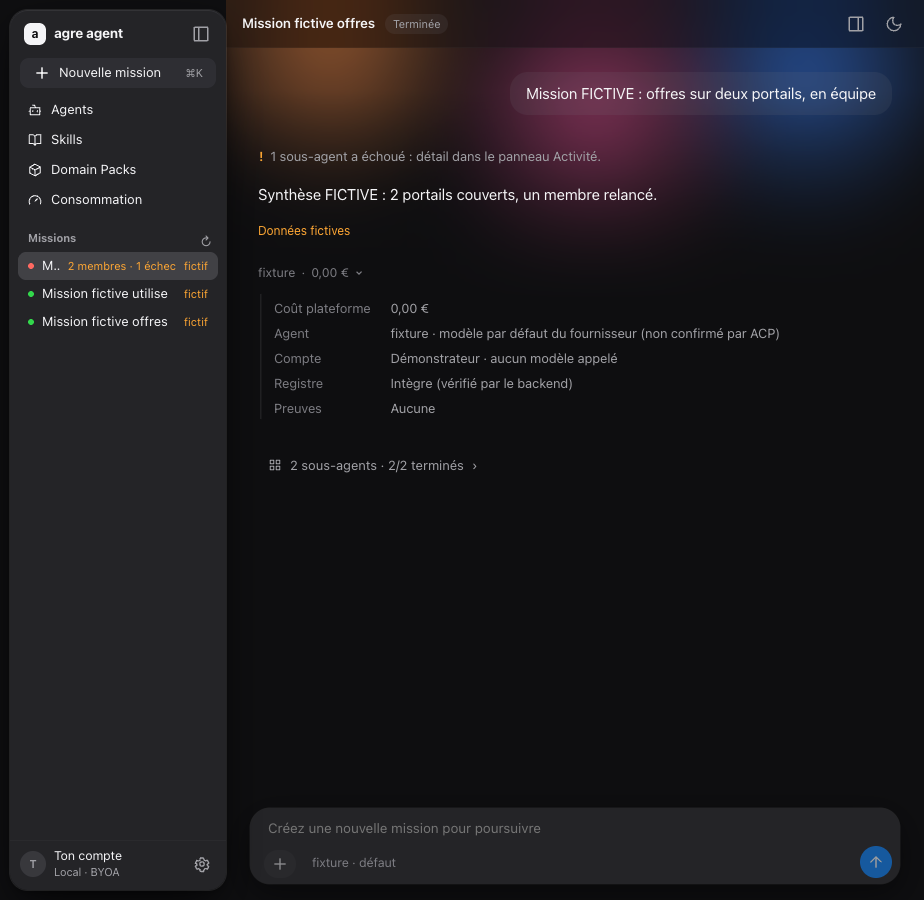
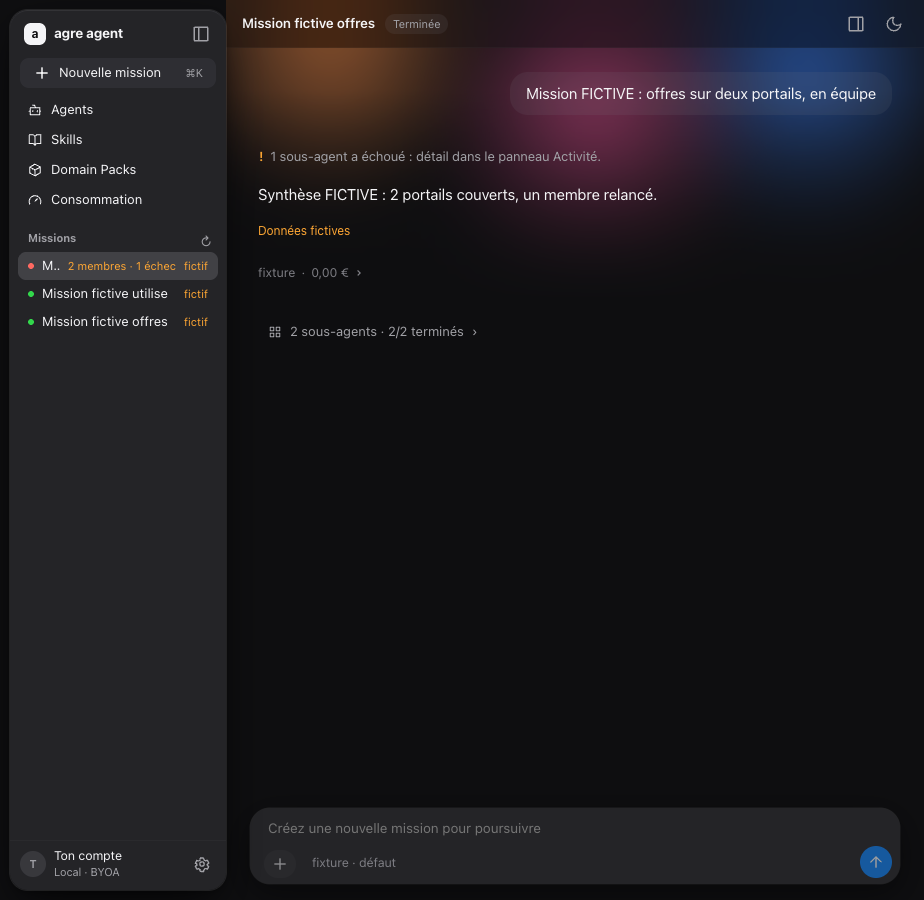
[reponse-04] E2E complet 18/18 contre le back à jour (35af485) ; captures « après » refaites ; rapport et note de reprise

diff --git a/.manager/reports/reponse-04.md b/.manager/reports/reponse-04.md
@@ -35,8 +35,9 @@ Mission workflow à 760 px :
   « Voir à côté » (un membre suivi en direct dans une **vue scindée** à côté du fil de sa mission) et « Arrêter ».
 - **Aussi** : brief 02 (étapes d'un workflow en une ligne, « Données » dans les détails, journal brut dans le panneau,
   accords d'étape dans la réponse) et `skill-chip-01` (pastille de skill, lueur à trois trajectoires).
-- **Vérifié** : `npm test` 392/392, `npm run build` OK, `prettier` OK, captures avant/après, e2e 17/18 contre le back
-  `swarm-20-11` (le test « défilement » reste rouge, point ouvert n° 10). **Non vérifié** : aucun vrai agent lancé ; suite complète du back non lancée.
+- **Vérifié (21/11, 11:40)** : `npm test` 396/396, `npm run build` OK, `prettier` OK, **e2e 18/18** contre le back
+  `swarm-20-11` à jour (`35af485`, avec `swarm-14`, `15` et `16`), captures « après » refaites. **Non vérifié** : aucun
+  vrai agent lancé ; suite complète du back non lancée.
 
 ## Journal
 - 09:58 Zip extrait dans un dossier vide du scratchpad : dossier de passation `design_handoff_conversation_agent/`
@@ -76,6 +77,18 @@ Mission workflow à 760 px :
   Résultat : **17/18**. Reste rouge « défilement FICTIF : le composeur ne boucle pas après une petite remontée » : le
   composeur ne passe pas en compact après une remontée de 65 px. **Non diagnostiqué**, point ouvert n° 10. Sortie :
   `reponse-04/e2e-complet.txt` (passe à 16/18, avant la correction du test SSE).
+- 11:10 Reprise après compactage. Back relu : `swarm-20-11` est passé de `e7f4964` à `35af485` (lots `swarm-14`
+  consommation annoncée, `swarm-15` leçons durables, `swarm-16` niveaux de modèle). Docs `api-delegation.md` et
+  `api-lecons.md` relues. Rien de cassé côté front (événements inconnus ignorés, sans nom technique affiché).
+- 11:15 E2E « défilement » diagnostiqué par un script de mesure (scratchpad) : à 1550 px tout marche ; à 375 px la roue
+  ne produit aucun événement de défilement du fil. Cause : le panneau Activité, ouvert d'office en large, restait ouvert
+  et couvrait le fil sous 760 px (surcouche pleine largeur). Test rouge dans `activity-panel-app.test.tsx`, puis
+  correction dans `App.tsx` : le panneau se ferme quand la fenêtre passe sous 760 px. E2E seul : vert.
+- 11:20 Suivi du contrat du back : tests rouges puis verts pour l'événement `usage` (ligne « Annoncé par l’agent » du
+  détail de la ligne méta, via `texteAnnonce` dans `status.ts`) et `lecon_gardee` (journal). Commit `7ffb8b4`.
+- 11:25-11:40 `npm test` 396/396, build, prettier ; **e2e complet 18/18** (sortie : `reponse-04/e2e-complet.txt`) ;
+  captures `front-01-screens/` d'un ancien rapport, réécrites par l'e2e, remises ; captures « après » refaites (la
+  ligne méta est bien repliée dans la vue scindée).
 
 ## Ce qui disparaît du fil, ou change de place (étape 1 du brief)
 | Avant (dans le fil) | Après |
@@ -186,7 +199,7 @@ Adaptés, un par ligne :
 ## Captures (`.manager/reports/reponse-04/`, thème sombre)
 - Avant (18) : `avant-{terminee-workflow,reponse-agent,equipe}-{1440,924,760}-sombre.png` et `-haut.png`.
 - Après (22) : mêmes noms en `apres-`. S'y ajoutent `apres-reponse-agent-*-deplie.png` (activité et méta dépliées) et
-  `apres-equipe-1440-sombre-vue-scindee.png`.
+  `apres-equipe-1440-sombre-vue-scindee.png`. Refaites le 21/11 à 11:35, après la correction des clés (`90f9a98`).
 - Commande : `npm run build && node scripts/reponse-04-captures.mjs avant|apres`. Données FICTIVES : la réponse riche
   et l'équipe sont écrites dans la base de mon back de test, la mission workflow est un vrai workflow fictif.
 
@@ -207,9 +220,18 @@ Voir `reponse-04/npm-test.txt` (finale plus bas).
 7. **Équipe en tuiles** : c'est le bloc `TeamBlock` de swarm, en tuiles par la CSS. Ses textes et sa logique restent ceux testés par swarm. La tuile de la v4 avec « 3 dernières lignes d'activité » devient « dernière action … il y a … » et « depuis … », ce que donne le back.
 8. **« Revenir en bas »** : rond, centré au-dessus du composer ; il peut chevaucher un bloc (32 px).
 9. Les commits entre « tests rouges » et la fin ont des tests rouges par construction (méthode du brief).
-10. **E2E « défilement FICTIF »** encore rouge : après `scrollTop = scrollHeight` puis une remontée de 65 px, le
-    composeur reste `data-compact="false"`. Piste : la logique `onScroll` d'`App.tsx` (taille du conteneur mesurée
-    comme un redimensionnement) avec la nouvelle hauteur du composer. À diagnostiquer.
+10. ~~E2E « défilement FICTIF » rouge~~ : **corrigé le 21/11 à 11:20**. Ce n'était pas la logique `onScroll`. Le
+    panneau Activité, ouvert d'office à 1550 px, restait ouvert quand la fenêtre passait à 375 px ; sous 760 px il
+    devient une surcouche pleine largeur, qui cachait le fil (la roue faisait défiler le panneau). Il se ferme
+    maintenant quand la fenêtre passe sous 760 px ; rouvert à la main à cette largeur, il reste ouvert.
+11. **Vue scindée sous 760 px** : contrairement au panneau, elle ne se ferme pas quand la fenêtre rétrécit (c'est un
+    choix explicite, avec son bouton « Fermer la vue à côté »). À changer si tu préfères le même comportement.
+12. **Contrat du back du 21/11 au matin** (`swarm-14`, `swarm-15`, `swarm-16`, intégrés dans `swarm-20-11`, `35af485`) :
+    - événement `usage` (jetons et coût annoncés par l'agent) : nouvelle ligne « Annoncé par l’agent » dans le détail de
+      la ligne méta, chiffres et devise tels qu'annoncés, « non mesuré par la plateforme » ; absente sans chiffre ;
+    - `lecon_gardee` : ligne « Leçon gardée pour les prochaines missions » dans le journal, sans l'identifiant ;
+    - pas fait : niveau de modèle (`famille.niveau`, absent de `family[]`), écran des leçons (`GET /api/lecons`,
+      `POST /api/lecons/…`) : nouvel écran, à décider.
 
 ## Questions
 1. Faut-il refondre aussi le fil career-ops (CV, lettres, offres) sur ce modèle ?

diff --git a/.manager/reports/reprise-21-11.md b/.manager/reports/reprise-21-11.md
@@ -54,23 +54,27 @@
      d'égalité avec la base `48a2f4e` est adapté : la règle est retirée avant comparaison, après vérification de sa
      présence. 185 tests back ciblés verts ; suite complète non lancée.
 
-## État des vérifications (21/11, 11:05)
-- `npm test` : 26 fichiers, 392/392.
+## Après compactage (21/11, 11:10-11:40)
+- E2E « défilement » corrigé : le panneau Activité, ouvert d'office en large, couvrait le fil après un passage sous
+  760 px. Il se ferme maintenant à ce passage (`App.tsx`, test dans `activity-panel-app.test.tsx`).
+- Back relu à `35af485` (`swarm-14`, `15`, `16`) : événement `usage` → ligne « Annoncé par l’agent » du détail de la
+  ligne méta (`texteAnnonce`, `status.ts`) ; `lecon_gardee` → ligne du journal. Pas fait : `niveau` (absent de
+  `family[]`), écran des leçons (`/api/lecons`).
+- Captures « après » refaites.
+
+## État des vérifications (21/11, 11:40)
+- `npm test` : 26 fichiers, 396/396.
 - `npm run build` : OK.
 - `prettier` : OK.
-- E2E contre `~/Downloads/agregat-back-swarm` : 17/18.
+- E2E contre `~/Downloads/agregat-back-swarm` (`swarm-20-11`, `35af485`) : **18/18**.
 - Captures avant/après : `.manager/reports/reponse-04/`.
 
 ## Reste à faire
-1. E2E « défilement FICTIF » rouge : après une remontée de 65 px, le composeur ne passe pas en compact
-   (`onScroll` dans `App.tsx`). À diagnostiquer.
-2. Refaire les captures « après » : celles du commit `4fffd89` montrent la ligne méta dépliée par le défaut de clé,
-   corrigé depuis (`90f9a98`).
-3. Questions au propriétaire :
+1. Questions au propriétaire :
    - refondre aussi le fil career-ops sur `RunTurn` ?
    - intégrer `reponse-04-format` dans le back ?
    - garder la vue scindée ?
-4. Commandes utiles :
+2. Commandes utiles :
    - `npm run build && node scripts/reponse-04-captures.mjs apres` ;
    - `AGENT_PLATFORM_BACKEND_DIR=$HOME/Downloads/agregat-back-swarm nice -n 10 node --test --test-concurrency=1 tests/e2e.test.mjs` ;
    - après un e2e, `git checkout -- .manager/reports/front-01-screens/` (l'e2e réécrit ces captures d'un ancien rapport).
